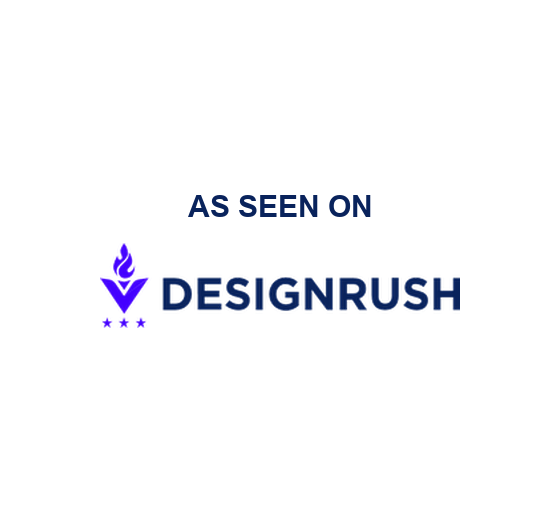
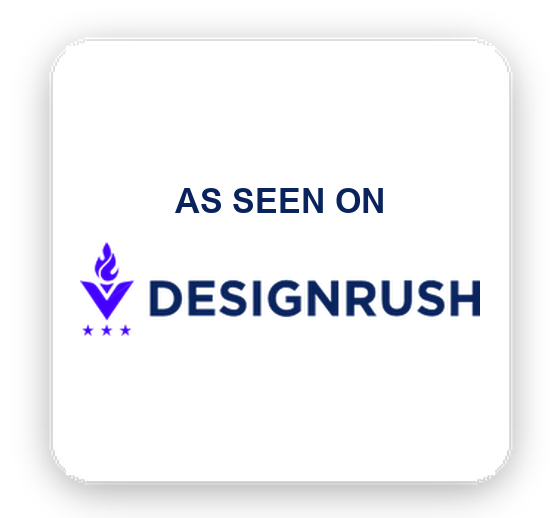
DesignRush karti: oteki kartlarla ayni cerceve

diff --git a/index.html b/index.html
@@ -249,7 +249,7 @@ itemprop="text"><div data-elementor-type="wp-page" data-elementor-id="650" class
 <svg aria-hidden="true" class="e-font-icon-svg e-fas-long-arrow-alt-right" viewBox="0 0 448 512" xmlns="http://www.w3.org/2000/svg"><path d="M313.941 216H12c-6.627 0-12 5.373-12 12v56c0 6.627 5.373 12 12 12h301.941v46.059c0 21.382 25.851 32.09 40.971 16.971l86.059-86.059c9.373-9.373 9.373-24.569 0-33.941l-86.059-86.059c-15.119-15.119-40.971-4.411-40.971 16.971V216z"></path></svg>			</span>
 <span class="elementor-button-text">More</span>
 </span>
-</a></div></div></div></div></div></div></div></div></div><div class="elementor-element elementor-element-ac70cff e-flex e-con-boxed e-con e-parent" data-id="ac70cff" data-element_type="container" data-e-type="container"><div class="e-con-inner"><div class="elementor-element elementor-element-73e6791 elementor-widget elementor-widget-html" data-id="73e6791" data-element_type="widget" data-e-type="widget" data-widget_type="html.default"><div class="elementor-widget-container"><div class="ep-ref" role="region" aria-label="Our References"><ul><li id="designrush" style="scroll-margin-top:420px"><a href="https://www.designrush.com/agency/business-consulting"><img loading="lazy" src="/img/designrush-kart.png?v=2" alt="As seen on DesignRush" width="280" height="259" decoding="async"></a></li><li><a href="https://exportpartnersllc.com/about-us/references/"><img loading="lazy" src="https://www.exportpartners.com.tr/wp-content/uploads/2026/09/referans-armin-ilac-kart.webp" alt="Reference: Armin Ilac" width="280" height="259" loading="lazy" decoding="async"></a></li><li><a href="https://exportpartnersllc.com/about-us/references/"><img loading="lazy" src="https://www.exportpartners.com.tr/wp-content/uploads/2026/09/referans-erdemir-kart.webp" alt="Reference: Erdemir" width="280" height="259" loading="lazy" decoding="async"></a></li><li><a href="https://exportpartnersllc.com/about-us/references/"><img loading="lazy" src="https://www.exportpartners.com.tr/wp-content/uploads/2026/09/referans-bargello-kart.webp" alt="Reference: Bargello" width="280" height="259" loading="lazy" decoding="async"></a></li><li><a href="https://exportpartnersllc.com/about-us/references/"><img loading="lazy" src="https://www.exportpartners.com.tr/wp-content/uploads/2026/09/referans-toller-gida-kart.webp" alt="Reference: Toller Gida" width="280" height="259" loading="lazy" decoding="async"></a></li><li><a href="https://exportpartnersllc.com/about-us/references/"><img loading="lazy" src="https://www.exportpartners.com.tr/wp-content/uploads/2026/09/referans-storm-vitals-kart.webp" alt="Reference: Storm Vitals" width="280" height="259" loading="lazy" decoding="async"></a></li><li><a href="https://exportpartnersllc.com/about-us/references/"><img loading="lazy" src="https://www.exportpartners.com.tr/wp-content/uploads/2026/09/referans-dermanium-kart.webp" alt="Reference: Dermanium" width="280" height="259" loading="lazy" decoding="async"></a></li><li><a href="https://exportpartnersllc.com/about-us/references/"><img loading="lazy" src="https://www.exportpartners.com.tr/wp-content/uploads/2026/09/referans-balen-bal-kart.webp" alt="Reference: Balen Bal" width="280" height="259" loading="lazy" decoding="async"></a></li><li><a href="https://exportpartnersllc.com/about-us/references/"><img loading="lazy" src="https://www.exportpartners.com.tr/wp-content/uploads/2026/09/referans-cota-gida-kart.webp" alt="Reference: Cota Gida" width="280" height="259" loading="lazy" decoding="async"></a></li><li><a href="https://exportpartnersllc.com/about-us/references/"><img loading="lazy" src="https://www.exportpartners.com.tr/wp-content/uploads/2026/09/referans-vino-dessera-kart.webp" alt="Reference: Vino Dessera" width="280" height="259" loading="lazy" decoding="async"></a></li><li><a href="https://exportpartnersllc.com/about-us/references/"><img loading="lazy" src="https://www.exportpartners.com.tr/wp-content/uploads/2026/09/referans-lots-of-logistics-kart.webp" alt="Reference: Lots Of Logistics" width="280" height="259" loading="lazy" decoding="async"></a></li><li><a href="https://exportpartnersllc.com/about-us/references/"><img loading="lazy" src="https://www.exportpartners.com.tr/wp-content/uploads/2026/09/referans-guney-sut-kart.webp" alt="Reference: Guney Sut" width="280" height="259" loading="lazy" decoding="async"></a></li><li><a href="https://exportpartnersllc.com/about-us/references/"><img loading="lazy" src="https://www.exportpartners.com.tr/wp-content/uploads/2024/02/referans-ephesustowels.png" alt="Reference: Ephesustowels" width="280" height="259" loading="lazy" decoding="async"></a></li><li><a href="https://exportpartnersllc.com/about-us/references/"><img loading="lazy" src="https://www.exportpartners.com.tr/wp-content/uploads/2024/02/referans-2-ozzy.png" alt="Reference: Ozzy" width="280" height="259" loading="lazy" decoding="async"></a></li><li><a href="https://exportpartnersllc.com/about-us/references/"><img loading="lazy" src="https://www.exportpartners.com.tr/wp-content/uploads/2024/02/referans-11-atelier.png" alt="Reference: Atelier" width="280" height="259" loading="lazy" decoding="async"></a></li><li><a href="https://exportpartnersllc.com/about-us/references/"><img loading="lazy" src="https://www.exportpartners.com.tr/wp-content/uploads/2024/02/referans-leila.png" alt="Reference: Leila" width="280" height="259" loading="lazy" decoding="async"></a></li><li><a href="https://exportpartnersllc.com/about-us/references/"><img loading="lazy" src="https://www.exportpartners.com.tr/wp-content/uploads/2024/02/referans-10-aleina.png" alt="Reference: Aleina" width="280" height="259" loading="lazy" decoding="async"></a></li><li><a href="https://exportpartnersllc.com/about-us/references/"><img loading="lazy" src="https://www.exportpartners.com.tr/wp-content/uploads/2024/02/referans-vi-art.png" alt="Reference: Vi Art" width="280" height="259" loading="lazy" decoding="async"></a></li><li><a href="https://exportpartnersllc.com/about-us/references/"><img loading="lazy" src="https://www.exportpartners.com.tr/wp-content/uploads/2024/02/referans-dorcia-home.png" alt="Reference: Dorcia Home" width="280" height="259" loading="lazy" decoding="async"></a></li><li><a href="https://exportpartnersllc.com/about-us/references/"><img loading="lazy" src="https://www.exportpartners.com.tr/wp-content/uploads/2024/02/referans-heraklia.png" alt="Reference: Heraklia" width="280" height="259" loading="lazy" decoding="async"></a></li><li><a href="https://exportpartnersllc.com/about-us/references/"><img loading="lazy" src="https://www.exportpartners.com.tr/wp-content/uploads/2024/02/referans-black-deer.png" alt="Reference: Black Deer" width="280" height="259" loading="lazy" decoding="async"></a></li><li><a href="https://exportpartnersllc.com/about-us/references/"><img loading="lazy" src="https://www.exportpartners.com.tr/wp-content/uploads/2024/02/referans-14-fortika.png" alt="Reference: Fortika" width="280" height="259" loading="lazy" decoding="async"></a></li><li><a href="https://exportpartnersllc.com/about-us/references/"><img loading="lazy" src="https://www.exportpartners.com.tr/wp-content/uploads/2024/02/referans-17-nodos.png" alt="Reference: Nodos" width="280" height="259" loading="lazy" decoding="async"></a></li><li><a href="https://exportpartnersllc.com/about-us/references/"><img loading="lazy" src="https://www.exportpartners.com.tr/wp-content/uploads/2024/02/referans-6-testmarket.png" alt="Reference: Testmarket" width="280" height="259" loading="lazy" decoding="async"></a></li><li><a href="https://exportpartnersllc.com/about-us/references/"><img loading="lazy" src="https://www.exportpartners.com.tr/wp-content/uploads/2024/02/referans-4-modax.png" alt="Reference: Modax" width="280" height="259" loading="lazy" decoding="async"></a></li><li aria-hidden="true"><a tabindex="-1" href="https://www.designrush.com/agency/business-consulting"><img loading="lazy" src="/img/designrush-kart.png?v=2" alt="As seen on DesignRush" width="280" height="259" decoding="async"></a></li><li aria-hidden="true"><a tabindex="-1" href="https://exportpartnersllc.com/about-us/references/"><img loading="lazy" src="https://www.exportpartners.com.tr/wp-content/uploads/2026/09/referans-armin-ilac-kart.webp" alt="Reference: Armin Ilac" width="280" height="259" loading="lazy" decoding="async"></a></li><li aria-hidden="true"><a tabindex="-1" href="https://exportpartnersllc.com/about-us/references/"><img loading="lazy" src="https://www.exportpartners.com.tr/wp-content/uploads/2026/09/referans-erdemir-kart.webp" alt="Reference: Erdemir" width="280" height="259" loading="lazy" decoding="async"></a></li><li aria-hidden="true"><a tabindex="-1" href="https://exportpartnersllc.com/about-us/references/"><img loading="lazy" src="https://www.exportpartners.com.tr/wp-content/uploads/2026/09/referans-bargello-kart.webp" alt="Reference: Bargello" width="280" height="259" loading="lazy" decoding="async"></a></li><li aria-hidden="true"><a tabindex="-1" href="https://exportpartnersllc.com/about-us/references/"><img loading="lazy" src="https://www.exportpartners.com.tr/wp-content/uploads/2026/09/referans-toller-gida-kart.webp" alt="Reference: Toller Gida" width="280" height="259" loading="lazy" decoding="async"></a></li><li aria-hidden="true"><a tabindex="-1" href="https://exportpartnersllc.com/about-us/references/"><img loading="lazy" src="https://www.exportpartners.com.tr/wp-content/uploads/2026/09/referans-storm-vitals-kart.webp" alt="Reference: Storm Vitals" width="280" height="259" loading="lazy" decoding="async"></a></li><li aria-hidden="true"><a tabindex="-1" href="https://exportpartnersllc.com/about-us/references/"><img loading="lazy" src="https://www.exportpartners.com.tr/wp-content/uploads/2026/09/referans-dermanium-kart.webp" alt="Reference: Dermanium" width="280" height="259" loading="lazy" decoding="async"></a></li><li aria-hidden="true"><a tabindex="-1" href="https://exportpartnersllc.com/about-us/references/"><img loading="lazy" src="https://www.exportpartners.com.tr/wp-content/uploads/2026/09/referans-balen-bal-kart.webp" alt="Reference: Balen Bal" width="280" height="259" loading="lazy" decoding="async"></a></li><li aria-hidden="true"><a tabindex="-1" href="https://exportpartnersllc.com/about-us/references/"><img loading="lazy" src="https://www.exportpartners.com.tr/wp-content/uploads/2026/09/referans-cota-gida-kart.webp" alt="Reference: Cota Gida" width="280" height="259" loading="lazy" decoding="async"></a></li><li aria-hidden="true"><a tabindex="-1" href="https://exportpartnersllc.com/about-us/references/"><img loading="lazy" src="https://www.exportpartners.com.tr/wp-content/uploads/2026/09/referans-vino-dessera-kart.webp" alt="Reference: Vino Dessera" width="280" height="259" loading="lazy" decoding="async"></a></li><li aria-hidden="true"><a tabindex="-1" href="https://exportpartnersllc.com/about-us/references/"><img loading="lazy" src="https://www.exportpartners.com.tr/wp-content/uploads/2026/09/referans-lots-of-logistics-kart.webp" alt="Reference: Lots Of Logistics" width="280" height="259" loading="lazy" decoding="async"></a></li><li aria-hidden="true"><a tabindex="-1" href="https://exportpartnersllc.com/about-us/references/"><img loading="lazy" src="https://www.exportpartners.com.tr/wp-content/uploads/2026/09/referans-guney-sut-kart.webp" alt="Reference: Guney Sut" width="280" height="259" loading="lazy" decoding="async"></a></li><li aria-hidden="true"><a tabindex="-1" href="https://exportpartnersllc.com/about-us/references/"><img loading="lazy" src="https://www.exportpartners.com.tr/wp-content/uploads/2024/02/referans-ephesustowels.png" alt="Reference: Ephesustowels" width="280" height="259" loading="lazy" decoding="async"></a></li><li aria-hidden="true"><a tabindex="-1" href="https://exportpartnersllc.com/about-us/references/"><img loading="lazy" src="https://www.exportpartners.com.tr/wp-content/uploads/2024/02/referans-2-ozzy.png" alt="Reference: Ozzy" width="280" height="259" loading="lazy" decoding="async"></a></li><li aria-hidden="true"><a tabindex="-1" href="https://exportpartnersllc.com/about-us/references/"><img loading="lazy" src="https://www.exportpartners.com.tr/wp-content/uploads/2024/02/referans-11-atelier.png" alt="Reference: Atelier" width="280" height="259" loading="lazy" decoding="async"></a></li><li aria-hidden="true"><a tabindex="-1" href="https://exportpartnersllc.com/about-us/references/"><img loading="lazy" src="https://www.exportpartners.com.tr/wp-content/uploads/2024/02/referans-leila.png" alt="Reference: Leila" width="280" height="259" loading="lazy" decoding="async"></a></li><li aria-hidden="true"><a tabindex="-1" href="https://exportpartnersllc.com/about-us/references/"><img loading="lazy" src="https://www.exportpartners.com.tr/wp-content/uploads/2024/02/referans-10-aleina.png" alt="Reference: Aleina" width="280" height="259" loading="lazy" decoding="async"></a></li><li aria-hidden="true"><a tabindex="-1" href="https://exportpartnersllc.com/about-us/references/"><img loading="lazy" src="https://www.exportpartners.com.tr/wp-content/uploads/2024/02/referans-vi-art.png" alt="Reference: Vi Art" width="280" height="259" loading="lazy" decoding="async"></a></li><li aria-hidden="true"><a tabindex="-1" href="https://exportpartnersllc.com/about-us/references/"><img loading="lazy" src="https://www.exportpartners.com.tr/wp-content/uploads/2024/02/referans-dorcia-home.png" alt="Reference: Dorcia Home" width="280" height="259" loading="lazy" decoding="async"></a></li><li aria-hidden="true"><a tabindex="-1" href="https://exportpartnersllc.com/about-us/references/"><img loading="lazy" src="https://www.exportpartners.com.tr/wp-content/uploads/2024/02/referans-heraklia.png" alt="Reference: Heraklia" width="280" height="259" loading="lazy" decoding="async"></a></li><li aria-hidden="true"><a tabindex="-1" href="https://exportpartnersllc.com/about-us/references/"><img loading="lazy" src="https://www.exportpartners.com.tr/wp-content/uploads/2024/02/referans-black-deer.png" alt="Reference: Black Deer" width="280" height="259" loading="lazy" decoding="async"></a></li><li aria-hidden="true"><a tabindex="-1" href="https://exportpartnersllc.com/about-us/references/"><img loading="lazy" src="https://www.exportpartners.com.tr/wp-content/uploads/2024/02/referans-14-fortika.png" alt="Reference: Fortika" width="280" height="259" loading="lazy" decoding="async"></a></li><li aria-hidden="true"><a tabindex="-1" href="https://exportpartnersllc.com/about-us/references/"><img loading="lazy" src="https://www.exportpartners.com.tr/wp-content/uploads/2024/02/referans-17-nodos.png" alt="Reference: Nodos" width="280" height="259" loading="lazy" decoding="async"></a></li><li aria-hidden="true"><a tabindex="-1" href="https://exportpartnersllc.com/about-us/references/"><img loading="lazy" src="https://www.exportpartners.com.tr/wp-content/uploads/2024/02/referans-6-testmarket.png" alt="Reference: Testmarket" width="280" height="259" loading="lazy" decoding="async"></a></li><li aria-hidden="true"><a tabindex="-1" href="https://exportpartnersllc.com/about-us/references/"><img loading="lazy" src="https://www.exportpartners.com.tr/wp-content/uploads/2024/02/referans-4-modax.png" alt="Reference: Modax" width="280" height="259" loading="lazy" decoding="async"></a></li></ul></div></div></div></div></div><section class="elementor-section elementor-top-section elementor-element elementor-element-2cf60d2a elementor-section-boxed elementor-section-height-default elementor-section-height-default" data-id="2cf60d2a" data-element_type="section" data-e-type="section" id="xs_accor_box_shadow_round" data-settings="{&quot;background_background&quot;:&quot;classic&quot;}"><div class="elementor-container elementor-column-gap-default"><div class="elementor-column elementor-col-100 elementor-top-column elementor-element elementor-element-7992a43d" data-id="7992a43d" data-element_type="column" data-e-type="column"><div class="elementor-widget-wrap elementor-element-populated"><div class="elementor-element elementor-element-722c768 elementor-widget elementor-widget-heading" data-id="722c768" data-element_type="widget" data-e-type="widget" data-widget_type="heading.default"><div class="elementor-widget-container"><h2 class="elementor-heading-title elementor-size-default">Frequently Asked Questions About Cross-Border E-Commerce</h2></div></div><div class="elementor-element elementor-element-9fbfd20 elementor-widget elementor-widget-text-editor" data-id="9fbfd20" data-element_type="widget" data-e-type="widget" data-widget_type="text-editor.default"><div class="elementor-widget-container"><p>Here you can find answers to common questions about cross-border e-commerce. If you still have questions, we are happy to answer them. <a href="https://exportpartnersllc.com/contact/">Contact us</a> and the Export Partners team will help you with all of your questions.</p></div></div><div class="elementor-element elementor-element-75a70f3c elementor-widget elementor-widget-html" data-id="75a70f3c" data-element_type="widget" data-e-type="widget" data-widget_type="html.default"><div class="elementor-widget-container"><div class="ep-sss"><details name="ep-sss" open><summary>What Is Cross-Border E-Commerce?</summary><div class="ep-sss-c"><p>Cross-border e-commerce is an export model in which products or services are sold to buyers in other countries over the internet. Products typically reach customers in global markets through international carriers and online marketplaces.</p></div></details><details name="ep-sss"><summary></summary><div class="ep-sss-c"><p></p><p></p><ul><li></li><li></li></ul><p></p></div></details><details name="ep-sss"><summary>How Does Cross-Border E-Commerce Work?</summary><div class="ep-sss-c"><p>In cross-border e-commerce, there are generally two sales methods. What matters is choosing the strategy that fits you best. When selecting the approach that suits your business model, a careful feasibility study is recommended. Many companies struggle because they follow the wrong strategy. With sound planning and budgeting, however, selling internationally online and growing your sales volume is achievable.</p></div></details><details name="ep-sss"><summary>What Are the Cost Items in Cross-Border E-Commerce?</summary><div class="ep-sss-c"><p>Costs can vary depending on the countries and marketplaces where you want to sell. Key cost items to be aware of include marketplace fixed and variable fees, shipping costs, fulfillment fees, digital marketing costs such as advertising, PPC and promotional product giveaways, and storage fees. By calculating your costs accurately, you can set the gross and net profit margin and the selling price that work best for you.</p></div></details><details name="ep-sss"><summary>Is Trademark Registration Abroad Necessary?</summary><div class="ep-sss-c"><p>Registering your trademark abroad gives your brand legal protection in that country. This can help you stop other sellers from using your brand or selling under the same storefront on online marketplaces, which strengthens your brand protection. You can also learn more about <a href="https://exportpartnersllc.com/trademark-registration/us-trademark-registration/">international trademark registration</a> and available <span>export support programs</span>.</p></div></details><details name="ep-sss"><summary>How Do I Ship Internationally?</summary><div class="ep-sss-c"><p>You can ship internationally with carriers such as UPS, FedEx and DHL, or through national postal services.</p><p>When shipping abroad, the main factors that affect the price are the package's dimensional weight, the shipping service and the delivery time.</p><p>Carriers price packages based on dimensional weight, a unit that reflects the volume of a shipment relative to its size. Regardless of the carrier you choose, the higher your package's dimensional weight, the higher the cost.</p><p>Dimensional weight is calculated with the formula width x length x height / 5000.</p><p>Using your package space efficiently and fitting more units into the same space can help you keep shipping costs to a minimum.</p></div></details><details name="ep-sss"><summary>How Is Cross-Border E-Commerce Different from Traditional Exporting?</summary><div class="ep-sss-c"><p style="background: white;"><span style="font-family: 'Arial',sans-serif; color: #454745;">Traditional exporting mainly works through B2B sales. In cross-border e-commerce, you can target consumers directly, selling B2C to the end customer.</span></p><p style="background: white;"><span style="font-family: 'Arial',sans-serif; color: #454745;">The main difference between the two shows up at customs. Traditional exports usually require a full customs declaration, customs procedures can take around 2-5 business days, and a customs broker is typically involved. Small e-commerce shipments can often move under simplified declarations handled by the carrier, and clearance may be completed within 1-2 days.</span></p></div></details><details name="ep-sss"><summary></summary><div class="ep-sss-c"><p></p><p></p></div></details><details name="ep-sss"><summary>Can I Sell on Amazon Without a Company?</summary><div class="ep-sss-c"><p>Having a registered company is generally needed for financial reasons: to receive invoices when purchasing goods, to invoice your sales and to manage tax matters related to exports. A company in the destination country can also be useful as a local point of contact, since buyer company information may be requested during customs clearance. Proper taxation and income reporting of payouts from international marketplaces will also support your business relationships over the long term.</p></div></details></div></div></div></div></div></div></section><div class="elementor-element elementor-element-d1834a8 e-flex e-con-boxed e-con e-parent" data-id="d1834a8" data-element_type="container" data-e-type="container"><div class="e-con-inner"><div class="elementor-element elementor-element-fd07015 e-flex e-con-boxed e-con e-child" data-id="fd07015" data-element_type="container" data-e-type="container"><div class="e-con-inner"><div class="elementor-element elementor-element-f82c48f e-con-full e-flex e-con e-child" data-id="f82c48f" data-element_type="container" data-e-type="container"><div class="elementor-element elementor-element-b0b41bb elementor-widget elementor-widget-heading" data-id="b0b41bb" data-element_type="widget" data-e-type="widget" data-widget_type="heading.default"><div class="elementor-widget-container"><h2 class="elementor-heading-title elementor-size-default">Our Blog Posts</h2></div></div><div class="elementor-element elementor-element-4e72baf elementor-widget elementor-widget-text-editor" data-id="4e72baf" data-element_type="widget" data-e-type="widget" data-widget_type="text-editor.default"><div class="elementor-widget-container"><p>We have written detailed articles on topics we believe will be useful for you. With our blog posts, you can learn a great deal about <strong>Amazon</strong>, <strong>FDA</strong> and <strong>cross-border e-commerce</strong>.</p></div></div></div><div class="elementor-element elementor-element-f5caf3f e-con-full e-flex e-con e-child" data-id="f5caf3f" data-element_type="container" data-e-type="container" data-settings="{&quot;animation&quot;:&quot;none&quot;}"><div class="elementor-element elementor-element-27053e8 elementor-align-right elementor-mobile-align-left elementor-widget elementor-widget-button" data-id="27053e8" data-element_type="widget" data-e-type="widget" data-widget_type="button.default"><div class="elementor-widget-container"><div class="elementor-button-wrapper">
+</a></div></div></div></div></div></div></div></div></div><div class="elementor-element elementor-element-ac70cff e-flex e-con-boxed e-con e-parent" data-id="ac70cff" data-element_type="container" data-e-type="container"><div class="e-con-inner"><div class="elementor-element elementor-element-73e6791 elementor-widget elementor-widget-html" data-id="73e6791" data-element_type="widget" data-e-type="widget" data-widget_type="html.default"><div class="elementor-widget-container"><div class="ep-ref" role="region" aria-label="Our References"><ul><li id="designrush" style="scroll-margin-top:420px"><a href="https://www.designrush.com/agency/business-consulting"><img loading="lazy" src="/img/designrush-kart.png?v=3" alt="As seen on DesignRush" width="280" height="259" decoding="async"></a></li><li><a href="https://exportpartnersllc.com/about-us/references/"><img loading="lazy" src="https://www.exportpartners.com.tr/wp-content/uploads/2026/09/referans-armin-ilac-kart.webp" alt="Reference: Armin Ilac" width="280" height="259" loading="lazy" decoding="async"></a></li><li><a href="https://exportpartnersllc.com/about-us/references/"><img loading="lazy" src="https://www.exportpartners.com.tr/wp-content/uploads/2026/09/referans-erdemir-kart.webp" alt="Reference: Erdemir" width="280" height="259" loading="lazy" decoding="async"></a></li><li><a href="https://exportpartnersllc.com/about-us/references/"><img loading="lazy" src="https://www.exportpartners.com.tr/wp-content/uploads/2026/09/referans-bargello-kart.webp" alt="Reference: Bargello" width="280" height="259" loading="lazy" decoding="async"></a></li><li><a href="https://exportpartnersllc.com/about-us/references/"><img loading="lazy" src="https://www.exportpartners.com.tr/wp-content/uploads/2026/09/referans-toller-gida-kart.webp" alt="Reference: Toller Gida" width="280" height="259" loading="lazy" decoding="async"></a></li><li><a href="https://exportpartnersllc.com/about-us/references/"><img loading="lazy" src="https://www.exportpartners.com.tr/wp-content/uploads/2026/09/referans-storm-vitals-kart.webp" alt="Reference: Storm Vitals" width="280" height="259" loading="lazy" decoding="async"></a></li><li><a href="https://exportpartnersllc.com/about-us/references/"><img loading="lazy" src="https://www.exportpartners.com.tr/wp-content/uploads/2026/09/referans-dermanium-kart.webp" alt="Reference: Dermanium" width="280" height="259" loading="lazy" decoding="async"></a></li><li><a href="https://exportpartnersllc.com/about-us/references/"><img loading="lazy" src="https://www.exportpartners.com.tr/wp-content/uploads/2026/09/referans-balen-bal-kart.webp" alt="Reference: Balen Bal" width="280" height="259" loading="lazy" decoding="async"></a></li><li><a href="https://exportpartnersllc.com/about-us/references/"><img loading="lazy" src="https://www.exportpartners.com.tr/wp-content/uploads/2026/09/referans-cota-gida-kart.webp" alt="Reference: Cota Gida" width="280" height="259" loading="lazy" decoding="async"></a></li><li><a href="https://exportpartnersllc.com/about-us/references/"><img loading="lazy" src="https://www.exportpartners.com.tr/wp-content/uploads/2026/09/referans-vino-dessera-kart.webp" alt="Reference: Vino Dessera" width="280" height="259" loading="lazy" decoding="async"></a></li><li><a href="https://exportpartnersllc.com/about-us/references/"><img loading="lazy" src="https://www.exportpartners.com.tr/wp-content/uploads/2026/09/referans-lots-of-logistics-kart.webp" alt="Reference: Lots Of Logistics" width="280" height="259" loading="lazy" decoding="async"></a></li><li><a href="https://exportpartnersllc.com/about-us/references/"><img loading="lazy" src="https://www.exportpartners.com.tr/wp-content/uploads/2026/09/referans-guney-sut-kart.webp" alt="Reference: Guney Sut" width="280" height="259" loading="lazy" decoding="async"></a></li><li><a href="https://exportpartnersllc.com/about-us/references/"><img loading="lazy" src="https://www.exportpartners.com.tr/wp-content/uploads/2024/02/referans-ephesustowels.png" alt="Reference: Ephesustowels" width="280" height="259" loading="lazy" decoding="async"></a></li><li><a href="https://exportpartnersllc.com/about-us/references/"><img loading="lazy" src="https://www.exportpartners.com.tr/wp-content/uploads/2024/02/referans-2-ozzy.png" alt="Reference: Ozzy" width="280" height="259" loading="lazy" decoding="async"></a></li><li><a href="https://exportpartnersllc.com/about-us/references/"><img loading="lazy" src="https://www.exportpartners.com.tr/wp-content/uploads/2024/02/referans-11-atelier.png" alt="Reference: Atelier" width="280" height="259" loading="lazy" decoding="async"></a></li><li><a href="https://exportpartnersllc.com/about-us/references/"><img loading="lazy" src="https://www.exportpartners.com.tr/wp-content/uploads/2024/02/referans-leila.png" alt="Reference: Leila" width="280" height="259" loading="lazy" decoding="async"></a></li><li><a href="https://exportpartnersllc.com/about-us/references/"><img loading="lazy" src="https://www.exportpartners.com.tr/wp-content/uploads/2024/02/referans-10-aleina.png" alt="Reference: Aleina" width="280" height="259" loading="lazy" decoding="async"></a></li><li><a href="https://exportpartnersllc.com/about-us/references/"><img loading="lazy" src="https://www.exportpartners.com.tr/wp-content/uploads/2024/02/referans-vi-art.png" alt="Reference: Vi Art" width="280" height="259" loading="lazy" decoding="async"></a></li><li><a href="https://exportpartnersllc.com/about-us/references/"><img loading="lazy" src="https://www.exportpartners.com.tr/wp-content/uploads/2024/02/referans-dorcia-home.png" alt="Reference: Dorcia Home" width="280" height="259" loading="lazy" decoding="async"></a></li><li><a href="https://exportpartnersllc.com/about-us/references/"><img loading="lazy" src="https://www.exportpartners.com.tr/wp-content/uploads/2024/02/referans-heraklia.png" alt="Reference: Heraklia" width="280" height="259" loading="lazy" decoding="async"></a></li><li><a href="https://exportpartnersllc.com/about-us/references/"><img loading="lazy" src="https://www.exportpartners.com.tr/wp-content/uploads/2024/02/referans-black-deer.png" alt="Reference: Black Deer" width="280" height="259" loading="lazy" decoding="async"></a></li><li><a href="https://exportpartnersllc.com/about-us/references/"><img loading="lazy" src="https://www.exportpartners.com.tr/wp-content/uploads/2024/02/referans-14-fortika.png" alt="Reference: Fortika" width="280" height="259" loading="lazy" decoding="async"></a></li><li><a href="https://exportpartnersllc.com/about-us/references/"><img loading="lazy" src="https://www.exportpartners.com.tr/wp-content/uploads/2024/02/referans-17-nodos.png" alt="Reference: Nodos" width="280" height="259" loading="lazy" decoding="async"></a></li><li><a href="https://exportpartnersllc.com/about-us/references/"><img loading="lazy" src="https://www.exportpartners.com.tr/wp-content/uploads/2024/02/referans-6-testmarket.png" alt="Reference: Testmarket" width="280" height="259" loading="lazy" decoding="async"></a></li><li><a href="https://exportpartnersllc.com/about-us/references/"><img loading="lazy" src="https://www.exportpartners.com.tr/wp-content/uploads/2024/02/referans-4-modax.png" alt="Reference: Modax" width="280" height="259" loading="lazy" decoding="async"></a></li><li aria-hidden="true"><a tabindex="-1" href="https://www.designrush.com/agency/business-consulting"><img loading="lazy" src="/img/designrush-kart.png?v=3" alt="As seen on DesignRush" width="280" height="259" decoding="async"></a></li><li aria-hidden="true"><a tabindex="-1" href="https://exportpartnersllc.com/about-us/references/"><img loading="lazy" src="https://www.exportpartners.com.tr/wp-content/uploads/2026/09/referans-armin-ilac-kart.webp" alt="Reference: Armin Ilac" width="280" height="259" loading="lazy" decoding="async"></a></li><li aria-hidden="true"><a tabindex="-1" href="https://exportpartnersllc.com/about-us/references/"><img loading="lazy" src="https://www.exportpartners.com.tr/wp-content/uploads/2026/09/referans-erdemir-kart.webp" alt="Reference: Erdemir" width="280" height="259" loading="lazy" decoding="async"></a></li><li aria-hidden="true"><a tabindex="-1" href="https://exportpartnersllc.com/about-us/references/"><img loading="lazy" src="https://www.exportpartners.com.tr/wp-content/uploads/2026/09/referans-bargello-kart.webp" alt="Reference: Bargello" width="280" height="259" loading="lazy" decoding="async"></a></li><li aria-hidden="true"><a tabindex="-1" href="https://exportpartnersllc.com/about-us/references/"><img loading="lazy" src="https://www.exportpartners.com.tr/wp-content/uploads/2026/09/referans-toller-gida-kart.webp" alt="Reference: Toller Gida" width="280" height="259" loading="lazy" decoding="async"></a></li><li aria-hidden="true"><a tabindex="-1" href="https://exportpartnersllc.com/about-us/references/"><img loading="lazy" src="https://www.exportpartners.com.tr/wp-content/uploads/2026/09/referans-storm-vitals-kart.webp" alt="Reference: Storm Vitals" width="280" height="259" loading="lazy" decoding="async"></a></li><li aria-hidden="true"><a tabindex="-1" href="https://exportpartnersllc.com/about-us/references/"><img loading="lazy" src="https://www.exportpartners.com.tr/wp-content/uploads/2026/09/referans-dermanium-kart.webp" alt="Reference: Dermanium" width="280" height="259" loading="lazy" decoding="async"></a></li><li aria-hidden="true"><a tabindex="-1" href="https://exportpartnersllc.com/about-us/references/"><img loading="lazy" src="https://www.exportpartners.com.tr/wp-content/uploads/2026/09/referans-balen-bal-kart.webp" alt="Reference: Balen Bal" width="280" height="259" loading="lazy" decoding="async"></a></li><li aria-hidden="true"><a tabindex="-1" href="https://exportpartnersllc.com/about-us/references/"><img loading="lazy" src="https://www.exportpartners.com.tr/wp-content/uploads/2026/09/referans-cota-gida-kart.webp" alt="Reference: Cota Gida" width="280" height="259" loading="lazy" decoding="async"></a></li><li aria-hidden="true"><a tabindex="-1" href="https://exportpartnersllc.com/about-us/references/"><img loading="lazy" src="https://www.exportpartners.com.tr/wp-content/uploads/2026/09/referans-vino-dessera-kart.webp" alt="Reference: Vino Dessera" width="280" height="259" loading="lazy" decoding="async"></a></li><li aria-hidden="true"><a tabindex="-1" href="https://exportpartnersllc.com/about-us/references/"><img loading="lazy" src="https://www.exportpartners.com.tr/wp-content/uploads/2026/09/referans-lots-of-logistics-kart.webp" alt="Reference: Lots Of Logistics" width="280" height="259" loading="lazy" decoding="async"></a></li><li aria-hidden="true"><a tabindex="-1" href="https://exportpartnersllc.com/about-us/references/"><img loading="lazy" src="https://www.exportpartners.com.tr/wp-content/uploads/2026/09/referans-guney-sut-kart.webp" alt="Reference: Guney Sut" width="280" height="259" loading="lazy" decoding="async"></a></li><li aria-hidden="true"><a tabindex="-1" href="https://exportpartnersllc.com/about-us/references/"><img loading="lazy" src="https://www.exportpartners.com.tr/wp-content/uploads/2024/02/referans-ephesustowels.png" alt="Reference: Ephesustowels" width="280" height="259" loading="lazy" decoding="async"></a></li><li aria-hidden="true"><a tabindex="-1" href="https://exportpartnersllc.com/about-us/references/"><img loading="lazy" src="https://www.exportpartners.com.tr/wp-content/uploads/2024/02/referans-2-ozzy.png" alt="Reference: Ozzy" width="280" height="259" loading="lazy" decoding="async"></a></li><li aria-hidden="true"><a tabindex="-1" href="https://exportpartnersllc.com/about-us/references/"><img loading="lazy" src="https://www.exportpartners.com.tr/wp-content/uploads/2024/02/referans-11-atelier.png" alt="Reference: Atelier" width="280" height="259" loading="lazy" decoding="async"></a></li><li aria-hidden="true"><a tabindex="-1" href="https://exportpartnersllc.com/about-us/references/"><img loading="lazy" src="https://www.exportpartners.com.tr/wp-content/uploads/2024/02/referans-leila.png" alt="Reference: Leila" width="280" height="259" loading="lazy" decoding="async"></a></li><li aria-hidden="true"><a tabindex="-1" href="https://exportpartnersllc.com/about-us/references/"><img loading="lazy" src="https://www.exportpartners.com.tr/wp-content/uploads/2024/02/referans-10-aleina.png" alt="Reference: Aleina" width="280" height="259" loading="lazy" decoding="async"></a></li><li aria-hidden="true"><a tabindex="-1" href="https://exportpartnersllc.com/about-us/references/"><img loading="lazy" src="https://www.exportpartners.com.tr/wp-content/uploads/2024/02/referans-vi-art.png" alt="Reference: Vi Art" width="280" height="259" loading="lazy" decoding="async"></a></li><li aria-hidden="true"><a tabindex="-1" href="https://exportpartnersllc.com/about-us/references/"><img loading="lazy" src="https://www.exportpartners.com.tr/wp-content/uploads/2024/02/referans-dorcia-home.png" alt="Reference: Dorcia Home" width="280" height="259" loading="lazy" decoding="async"></a></li><li aria-hidden="true"><a tabindex="-1" href="https://exportpartnersllc.com/about-us/references/"><img loading="lazy" src="https://www.exportpartners.com.tr/wp-content/uploads/2024/02/referans-heraklia.png" alt="Reference: Heraklia" width="280" height="259" loading="lazy" decoding="async"></a></li><li aria-hidden="true"><a tabindex="-1" href="https://exportpartnersllc.com/about-us/references/"><img loading="lazy" src="https://www.exportpartners.com.tr/wp-content/uploads/2024/02/referans-black-deer.png" alt="Reference: Black Deer" width="280" height="259" loading="lazy" decoding="async"></a></li><li aria-hidden="true"><a tabindex="-1" href="https://exportpartnersllc.com/about-us/references/"><img loading="lazy" src="https://www.exportpartners.com.tr/wp-content/uploads/2024/02/referans-14-fortika.png" alt="Reference: Fortika" width="280" height="259" loading="lazy" decoding="async"></a></li><li aria-hidden="true"><a tabindex="-1" href="https://exportpartnersllc.com/about-us/references/"><img loading="lazy" src="https://www.exportpartners.com.tr/wp-content/uploads/2024/02/referans-17-nodos.png" alt="Reference: Nodos" width="280" height="259" loading="lazy" decoding="async"></a></li><li aria-hidden="true"><a tabindex="-1" href="https://exportpartnersllc.com/about-us/references/"><img loading="lazy" src="https://www.exportpartners.com.tr/wp-content/uploads/2024/02/referans-6-testmarket.png" alt="Reference: Testmarket" width="280" height="259" loading="lazy" decoding="async"></a></li><li aria-hidden="true"><a tabindex="-1" href="https://exportpartnersllc.com/about-us/references/"><img loading="lazy" src="https://www.exportpartners.com.tr/wp-content/uploads/2024/02/referans-4-modax.png" alt="Reference: Modax" width="280" height="259" loading="lazy" decoding="async"></a></li></ul></div></div></div></div></div><section class="elementor-section elementor-top-section elementor-element elementor-element-2cf60d2a elementor-section-boxed elementor-section-height-default elementor-section-height-default" data-id="2cf60d2a" data-element_type="section" data-e-type="section" id="xs_accor_box_shadow_round" data-settings="{&quot;background_background&quot;:&quot;classic&quot;}"><div class="elementor-container elementor-column-gap-default"><div class="elementor-column elementor-col-100 elementor-top-column elementor-element elementor-element-7992a43d" data-id="7992a43d" data-element_type="column" data-e-type="column"><div class="elementor-widget-wrap elementor-element-populated"><div class="elementor-element elementor-element-722c768 elementor-widget elementor-widget-heading" data-id="722c768" data-element_type="widget" data-e-type="widget" data-widget_type="heading.default"><div class="elementor-widget-container"><h2 class="elementor-heading-title elementor-size-default">Frequently Asked Questions About Cross-Border E-Commerce</h2></div></div><div class="elementor-element elementor-element-9fbfd20 elementor-widget elementor-widget-text-editor" data-id="9fbfd20" data-element_type="widget" data-e-type="widget" data-widget_type="text-editor.default"><div class="elementor-widget-container"><p>Here you can find answers to common questions about cross-border e-commerce. If you still have questions, we are happy to answer them. <a href="https://exportpartnersllc.com/contact/">Contact us</a> and the Export Partners team will help you with all of your questions.</p></div></div><div class="elementor-element elementor-element-75a70f3c elementor-widget elementor-widget-html" data-id="75a70f3c" data-element_type="widget" data-e-type="widget" data-widget_type="html.default"><div class="elementor-widget-container"><div class="ep-sss"><details name="ep-sss" open><summary>What Is Cross-Border E-Commerce?</summary><div class="ep-sss-c"><p>Cross-border e-commerce is an export model in which products or services are sold to buyers in other countries over the internet. Products typically reach customers in global markets through international carriers and online marketplaces.</p></div></details><details name="ep-sss"><summary></summary><div class="ep-sss-c"><p></p><p></p><ul><li></li><li></li></ul><p></p></div></details><details name="ep-sss"><summary>How Does Cross-Border E-Commerce Work?</summary><div class="ep-sss-c"><p>In cross-border e-commerce, there are generally two sales methods. What matters is choosing the strategy that fits you best. When selecting the approach that suits your business model, a careful feasibility study is recommended. Many companies struggle because they follow the wrong strategy. With sound planning and budgeting, however, selling internationally online and growing your sales volume is achievable.</p></div></details><details name="ep-sss"><summary>What Are the Cost Items in Cross-Border E-Commerce?</summary><div class="ep-sss-c"><p>Costs can vary depending on the countries and marketplaces where you want to sell. Key cost items to be aware of include marketplace fixed and variable fees, shipping costs, fulfillment fees, digital marketing costs such as advertising, PPC and promotional product giveaways, and storage fees. By calculating your costs accurately, you can set the gross and net profit margin and the selling price that work best for you.</p></div></details><details name="ep-sss"><summary>Is Trademark Registration Abroad Necessary?</summary><div class="ep-sss-c"><p>Registering your trademark abroad gives your brand legal protection in that country. This can help you stop other sellers from using your brand or selling under the same storefront on online marketplaces, which strengthens your brand protection. You can also learn more about <a href="https://exportpartnersllc.com/trademark-registration/us-trademark-registration/">international trademark registration</a> and available <span>export support programs</span>.</p></div></details><details name="ep-sss"><summary>How Do I Ship Internationally?</summary><div class="ep-sss-c"><p>You can ship internationally with carriers such as UPS, FedEx and DHL, or through national postal services.</p><p>When shipping abroad, the main factors that affect the price are the package's dimensional weight, the shipping service and the delivery time.</p><p>Carriers price packages based on dimensional weight, a unit that reflects the volume of a shipment relative to its size. Regardless of the carrier you choose, the higher your package's dimensional weight, the higher the cost.</p><p>Dimensional weight is calculated with the formula width x length x height / 5000.</p><p>Using your package space efficiently and fitting more units into the same space can help you keep shipping costs to a minimum.</p></div></details><details name="ep-sss"><summary>How Is Cross-Border E-Commerce Different from Traditional Exporting?</summary><div class="ep-sss-c"><p style="background: white;"><span style="font-family: 'Arial',sans-serif; color: #454745;">Traditional exporting mainly works through B2B sales. In cross-border e-commerce, you can target consumers directly, selling B2C to the end customer.</span></p><p style="background: white;"><span style="font-family: 'Arial',sans-serif; color: #454745;">The main difference between the two shows up at customs. Traditional exports usually require a full customs declaration, customs procedures can take around 2-5 business days, and a customs broker is typically involved. Small e-commerce shipments can often move under simplified declarations handled by the carrier, and clearance may be completed within 1-2 days.</span></p></div></details><details name="ep-sss"><summary></summary><div class="ep-sss-c"><p></p><p></p></div></details><details name="ep-sss"><summary>Can I Sell on Amazon Without a Company?</summary><div class="ep-sss-c"><p>Having a registered company is generally needed for financial reasons: to receive invoices when purchasing goods, to invoice your sales and to manage tax matters related to exports. A company in the destination country can also be useful as a local point of contact, since buyer company information may be requested during customs clearance. Proper taxation and income reporting of payouts from international marketplaces will also support your business relationships over the long term.</p></div></details></div></div></div></div></div></div></section><div class="elementor-element elementor-element-d1834a8 e-flex e-con-boxed e-con e-parent" data-id="d1834a8" data-element_type="container" data-e-type="container"><div class="e-con-inner"><div class="elementor-element elementor-element-fd07015 e-flex e-con-boxed e-con e-child" data-id="fd07015" data-element_type="container" data-e-type="container"><div class="e-con-inner"><div class="elementor-element elementor-element-f82c48f e-con-full e-flex e-con e-child" data-id="f82c48f" data-element_type="container" data-e-type="container"><div class="elementor-element elementor-element-b0b41bb elementor-widget elementor-widget-heading" data-id="b0b41bb" data-element_type="widget" data-e-type="widget" data-widget_type="heading.default"><div class="elementor-widget-container"><h2 class="elementor-heading-title elementor-size-default">Our Blog Posts</h2></div></div><div class="elementor-element elementor-element-4e72baf elementor-widget elementor-widget-text-editor" data-id="4e72baf" data-element_type="widget" data-e-type="widget" data-widget_type="text-editor.default"><div class="elementor-widget-container"><p>We have written detailed articles on topics we believe will be useful for you. With our blog posts, you can learn a great deal about <strong>Amazon</strong>, <strong>FDA</strong> and <strong>cross-border e-commerce</strong>.</p></div></div></div><div class="elementor-element elementor-element-f5caf3f e-con-full e-flex e-con e-child" data-id="f5caf3f" data-element_type="container" data-e-type="container" data-settings="{&quot;animation&quot;:&quot;none&quot;}"><div class="elementor-element elementor-element-27053e8 elementor-align-right elementor-mobile-align-left elementor-widget elementor-widget-button" data-id="27053e8" data-element_type="widget" data-e-type="widget" data-widget_type="button.default"><div class="elementor-widget-container"><div class="elementor-button-wrapper">
 <a class="elementor-button elementor-button-link elementor-size-sm" href="https://exportpartnersllc.com/blog/">
 <span class="elementor-button-content-wrapper">
 <span class="elementor-button-text">Browse All Our Blog Posts</span>
